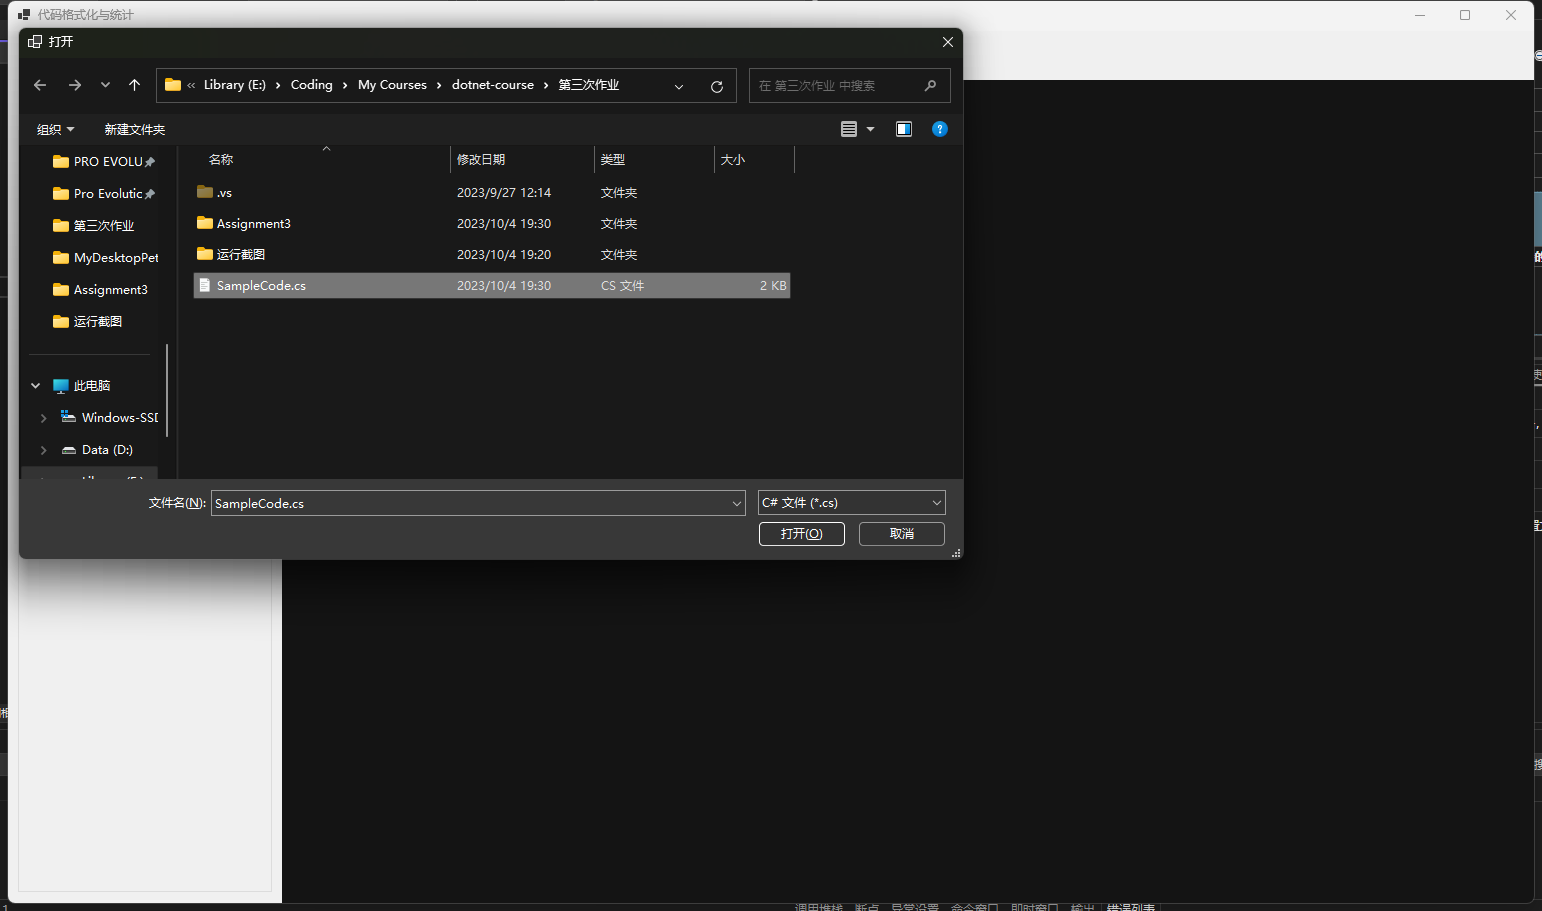
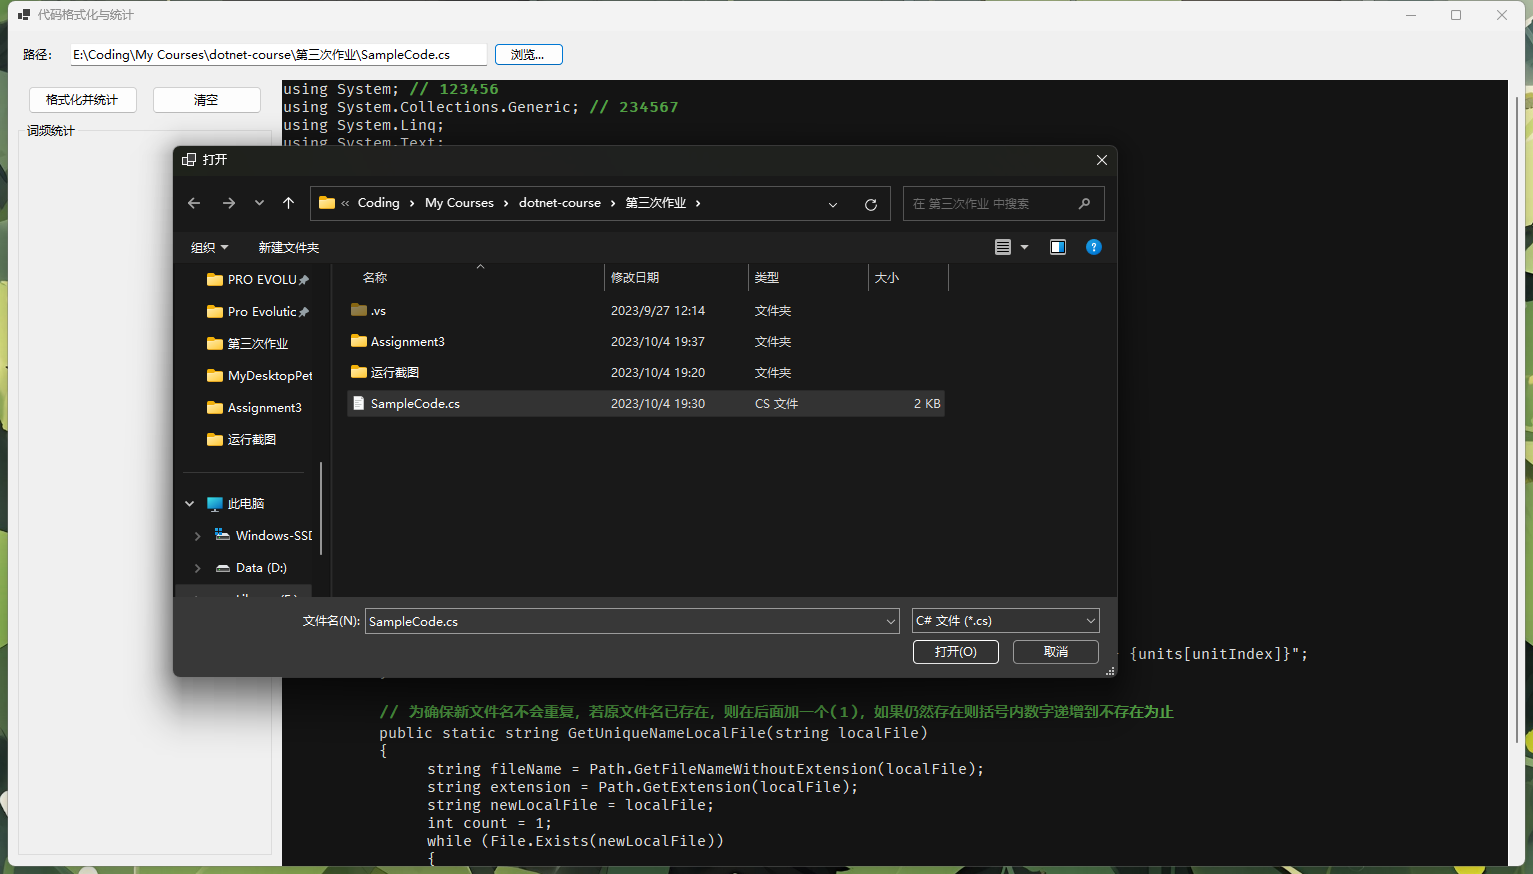
Alter button text

diff --git a/第三次作业/Assignment3/FormMain.Designer.cs b/第三次作业/Assignment3/FormMain.Designer.cs
@@ -37,9 +37,9 @@
 			this.groupBox1 = new System.Windows.Forms.GroupBox();
 			this.rtbCounts = new System.Windows.Forms.RichTextBox();
 			this.panel3 = new System.Windows.Forms.Panel();
+			this.btnClear = new System.Windows.Forms.Button();
 			this.btnFormat = new System.Windows.Forms.Button();
 			this.rtbCode = new System.Windows.Forms.RichTextBox();
-			this.btnClear = new System.Windows.Forms.Button();
 			this.panel1.SuspendLayout();
 			this.panel2.SuspendLayout();
 			this.panel4.SuspendLayout();
@@ -142,13 +142,23 @@
 			this.panel3.Size = new System.Drawing.Size(274, 42);
 			this.panel3.TabIndex = 5;
 			// 
+			// btnClear
+			// 
+			this.btnClear.Location = new System.Drawing.Point(144, 6);
+			this.btnClear.Name = "btnClear";
+			this.btnClear.Size = new System.Drawing.Size(110, 28);
+			this.btnClear.TabIndex = 6;
+			this.btnClear.Text = "清空";
+			this.btnClear.UseVisualStyleBackColor = true;
+			this.btnClear.Click += new System.EventHandler(this.btnClear_Click);
+			// 
 			// btnFormat
 			// 
 			this.btnFormat.Location = new System.Drawing.Point(20, 6);
 			this.btnFormat.Name = "btnFormat";
 			this.btnFormat.Size = new System.Drawing.Size(110, 28);
 			this.btnFormat.TabIndex = 5;
-			this.btnFormat.Text = "格式化";
+			this.btnFormat.Text = "格式化并统计";
 			this.btnFormat.UseVisualStyleBackColor = true;
 			this.btnFormat.Click += new System.EventHandler(this.btnFormat_Click);
 			// 
@@ -166,16 +176,6 @@
 			this.rtbCode.TabIndex = 8;
 			this.rtbCode.Text = "";
 			this.rtbCode.TextChanged += new System.EventHandler(this.rtbCode_TextChanged);
-			// 
-			// btnClear
-			// 
-			this.btnClear.Location = new System.Drawing.Point(144, 6);
-			this.btnClear.Name = "btnClear";
-			this.btnClear.Size = new System.Drawing.Size(110, 28);
-			this.btnClear.TabIndex = 6;
-			this.btnClear.Text = "清空";
-			this.btnClear.UseVisualStyleBackColor = true;
-			this.btnClear.Click += new System.EventHandler(this.btnClear_Click);
 			// 
 			// FormMain
 			// 
